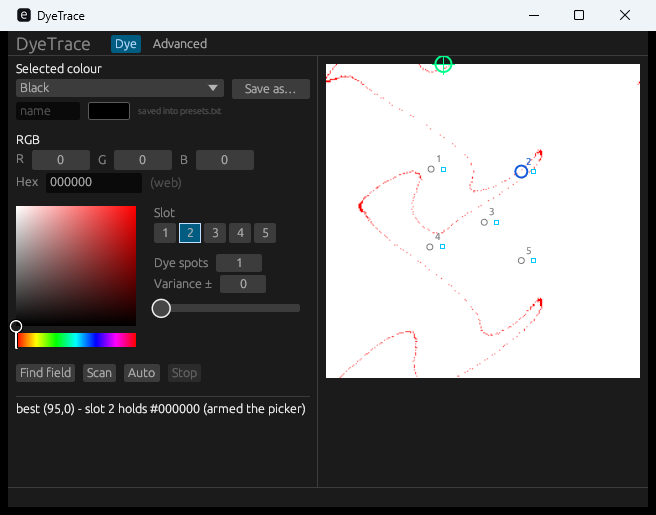
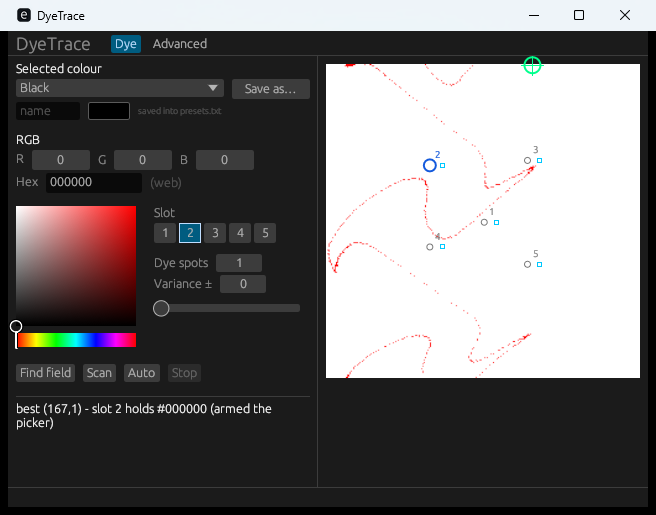
Number the samples the way the dye window numbers them
The dye window prints 1-5 above its five previews, and the samples behind them sit around the cursor: 1 is under the cursor, 2 and 3 are above it (left, right) and 4 and 5 below. The measured table now carries that slot for each entry instead of being numbered by detection order, so a chosen slot selects the same sample the player sees. A sample the detection misses keeps its neighbours' numbers - if the top-left sample is not drawn, the top-right one is still 3 - which is why the slot map travels with the table rather than being the table's index.

diff --git a/crates/engine/src/cycle.rs b/crates/engine/src/cycle.rs
@@ -110,8 +110,12 @@ pub struct Scan {
     pub pointer: (i32, i32),
     /// Legend boxes found, in palette pixels.
     pub boxes: Vec<(i32, i32)>,
-    /// Sample offsets relative to the pointer.
+    /// Sample offsets relative to the pointer, in the client's slot order.
     pub table: Vec<(i32, i32)>,
+    /// The slot each entry of `table` belongs to, numbered the way the dye
+    /// window numbers its previews: 0 is the sample under the pointer, 1 and 2
+    /// are above it, 3 and 4 below.
+    pub slots: Vec<usize>,
     /// Best candidate and its score.
     pub best: Option<search::Match>,
     /// Whether this scan had to arm the picker itself.
@@ -158,6 +162,7 @@ struct Prepared {
     pointer: (i32, i32),
     boxes: Vec<(i32, i32)>,
     table: Vec<(i32, i32)>,
+    slots: Vec<usize>,
     armed: bool,
 }
 
@@ -430,14 +435,19 @@ fn prepare(
 
         match read_offsets(window, screen, mouse, id, &board, log) {
             Ok((table, pointer, boxes)) => {
+                // Number the samples the way the client's preview swatches are
+                // numbered, so a chosen slot means the same thing to the player
+                // and to the search.
+                let (table, slots) = offsets::ordered(&table);
                 return Ok(Prepared {
                     board,
                     grid,
                     pointer,
                     boxes,
                     table,
+                    slots,
                     armed: presses > 0,
-                })
+                });
             }
             Err(ScanFail::NoLegend) if label == label::Label::PickColor => continue,
             Err(other) => return Err(other),
@@ -454,7 +464,7 @@ pub fn scan_once(
 ) -> Result<Scan, ScanFail> {
     let id = window.find().ok_or(ScanFail::NoClient)?;
     let prep = prepare(window, screen, mouse, id, opts, &mut |_: &str| {})?;
-    let (colours, _) = wanted(opts, prep.table.len());
+    let (colours, _) = wanted(opts, &prep);
     let best = search::search_with(&prep.grid, &prep.table, &colours, opts.variance);
 
     Ok(Scan {
@@ -464,6 +474,7 @@ pub fn scan_once(
         pointer: prep.pointer,
         boxes: prep.boxes,
         table: prep.table,
+        slots: prep.slots,
         best,
         armed: prep.armed,
     })
@@ -511,9 +522,13 @@ fn cancel_roll(
 }
 
 /// The colours to look for, one entry per measured sample, and how many of them
-/// must hold it.  A chosen slot takes priority over the slot count.
-fn wanted(opts: &Options, len: usize) -> (Vec<Option<Rgb>>, usize) {
-    search::plan(len, opts.colour, opts.slots, opts.prefer)
+/// must hold it.  A chosen slot takes priority over the slot count, and is
+/// looked up through the scan's slot map so a partial read cannot shift it.
+fn wanted(opts: &Options, prep: &Prepared) -> (Vec<Option<Rgb>>, usize) {
+    let prefer = opts
+        .prefer
+        .and_then(|slot| prep.slots.iter().position(|mine| *mine == slot));
+    search::plan(prep.table.len(), opts.colour, opts.slots, prefer)
 }
 
 /// Run the full cycle until a match is clicked, the colour runs out, or the
@@ -585,14 +600,14 @@ pub fn run(
             prep.pointer.1
         ));
 
-        let (colours, need) = wanted(opts, prep.table.len());
+        let (colours, need) = wanted(opts, &prep);
         if let Some(best) = search::search_with(&prep.grid, &prep.table, &colours, opts.variance) {
-            match opts.prefer.filter(|index| *index < prep.table.len()) {
-                Some(index) => report(&format!(
+            match opts.prefer.filter(|slot| prep.slots.contains(slot)) {
+                Some(slot) => report(&format!(
                     "  best=({},{}) slot {} holds it",
                     best.x,
                     best.y,
-                    index + 1
+                    slot + 1
                 )),
                 None => report(&format!(
                     "  best=({},{}) {}/{} need={need}",

diff --git a/crates/core/src/offsets.rs b/crates/core/src/offsets.rs
@@ -47,3 +47,64 @@ pub fn from_boxes(boxes: &[(i32, i32)], pointer: (i32, i32)) -> Vec<(i32, i32)> 
 
     table
 }
+
+/// The dye window numbers its five preview swatches, and the samples behind them
+/// sit around the cursor: slot 1 is the pixel under the cursor, 2 and 3 are the
+/// samples above it (left, then right), and 4 and 5 the ones below.
+pub const SLOT_COUNT: usize = 5;
+/// The slot that the pointer itself samples.
+pub const SLOT_CENTRE: usize = 0;
+
+/// The slot a sample belongs to, judged by where it sits around the cursor.
+fn quadrant(dx: i32, dy: i32) -> usize {
+    match (dy < 0, dx < 0) {
+        (true, true) => 1,   // above, left
+        (true, false) => 2,  // above, right
+        (false, true) => 3,  // below, left
+        (false, false) => 4, // below, right
+    }
+}
+
+/// Pair every measured offset with the slot the dye window numbers it by.
+///
+/// A sample the detection missed keeps its neighbours' numbers, so a partial
+/// read still means the same thing: if the top-left sample is not visible, the
+/// top-right one is still slot 3.  Two samples cannot share a slot, so a second
+/// one in the same corner takes the lowest free slot instead.
+pub fn by_slot(table: &[(i32, i32)]) -> Vec<(usize, (i32, i32))> {
+    let mut used = [false; SLOT_COUNT];
+    let mut pairs: Vec<(usize, (i32, i32))> = Vec::with_capacity(table.len());
+
+    let centre = table.iter().find(|(dx, dy)| *dx == 0 && *dy == 0);
+    if let Some(offset) = centre {
+        used[SLOT_CENTRE] = true;
+        pairs.push((SLOT_CENTRE, *offset));
+    }
+
+    for offset in table {
+        if Some(offset) == centre {
+            continue;
+        }
+        let mut slot = quadrant(offset.0, offset.1);
+        if used[slot] {
+            match used.iter().position(|taken| !taken) {
+                Some(free) => slot = free,
+                None => continue,
+            }
+        }
+        used[slot] = true;
+        pairs.push((slot, *offset));
+    }
+
+    pairs.sort_by_key(|(slot, _)| *slot);
+    pairs
+}
+
+/// The offsets in slot order, together with the slot of each entry.
+pub fn ordered(table: &[(i32, i32)]) -> (Vec<(i32, i32)>, Vec<usize>) {
+    let pairs = by_slot(table);
+    (
+        pairs.iter().map(|(_, offset)| *offset).collect(),
+        pairs.iter().map(|(slot, _)| *slot).collect(),
+    )
+}

diff --git a/tools/ui_focus.py b/tools/ui_focus.py
@@ -1,0 +1,48 @@
+"""Bring a window to the front, even from a background process.
+
+    python tools/ui_focus.py DyeTrace
+
+Windows normally refuses SetForegroundWindow to a process the user is not
+interacting with.  Sharing the foreground thread's input queue for the call is
+the documented way around that.
+"""
+import ctypes
+import sys
+import time
+from ctypes import wintypes
+
+user32 = ctypes.WinDLL('user32', use_last_error=True)
+kernel32 = ctypes.WinDLL('kernel32', use_last_error=True)
+
+user32.FindWindowA.restype = wintypes.HWND
+user32.FindWindowA.argtypes = [wintypes.LPCSTR, wintypes.LPCSTR]
+user32.GetForegroundWindow.restype = wintypes.HWND
+user32.GetWindowThreadProcessId.argtypes = [wintypes.HWND, ctypes.POINTER(wintypes.DWORD)]
+user32.GetWindowThreadProcessId.restype = wintypes.DWORD
+user32.AttachThreadInput.argtypes = [wintypes.DWORD, wintypes.DWORD, wintypes.BOOL]
+user32.SetForegroundWindow.argtypes = [wintypes.HWND]
+user32.BringWindowToTop.argtypes = [wintypes.HWND]
+kernel32.GetCurrentThreadId.restype = wintypes.DWORD
+
+
+def focus(title):
+    hwnd = user32.FindWindowA(None, title.encode())
+    if not hwnd:
+        raise SystemExit(f'no window titled {title!r}')
+
+    foreground = user32.GetForegroundWindow()
+    mine = kernel32.GetCurrentThreadId()
+    theirs = user32.GetWindowThreadProcessId(foreground, None)
+
+    user32.AttachThreadInput(mine, theirs, True)
+    user32.BringWindowToTop(hwnd)
+    user32.SetForegroundWindow(hwnd)
+    user32.AttachThreadInput(mine, theirs, False)
+    time.sleep(0.4)
+
+    return user32.GetForegroundWindow() == hwnd
+
+
+if __name__ == '__main__':
+    title = sys.argv[1] if len(sys.argv) > 1 else 'DyeTrace'
+    print('raised' if focus(title) else 'could not raise')

diff --git a/crates/core/tests/offsets.rs b/crates/core/tests/offsets.rs
@@ -35,3 +35,40 @@ fn table_never_exceeds_five_slots() {
     ];
     assert!(offsets::from_boxes(&boxes, (100, 100)).len() <= 5);
 }
+
+#[test]
+fn slots_are_numbered_the_way_the_dye_window_numbers_them() {
+    // Measured offsets from a live roll, in the order raster detection finds
+    // them: the client's numbering is 1 = cursor, 2 = top left, 3 = top right,
+    // 4 = bottom left, 5 = bottom right.
+    let measured = [(29, -45), (-44, 23), (0, 0), (-47, -48), (26, 30)];
+    let (table, slots) = offsets::ordered(&measured);
+
+    assert_eq!(
+        table,
+        vec![(0, 0), (-47, -48), (29, -45), (-44, 23), (26, 30)]
+    );
+    assert_eq!(slots, vec![0, 1, 2, 3, 4]);
+}
+
+#[test]
+fn a_missing_sample_does_not_renumber_the_others() {
+    // The top-left sample was not drawn this time; the top-right one is still
+    // slot 3 and the bottom-left one still slot 4.
+    let measured = [(-40, 27), (0, 0), (31, -45)];
+    let (table, slots) = offsets::ordered(&measured);
+
+    assert_eq!(table, vec![(0, 0), (31, -45), (-40, 27)]);
+    assert_eq!(slots, vec![0, 2, 3]);
+}
+
+#[test]
+fn two_samples_in_one_corner_take_separate_slots() {
+    let measured = [(0, 0), (-30, -20), (-60, -40)];
+    let (_, slots) = offsets::ordered(&measured);
+
+    assert_eq!(slots.len(), 3);
+    assert_eq!(slots[0], 0);
+    assert_eq!(slots[1], 1, "the nearer one keeps the corner");
+    assert_ne!(slots[2], 1);
+}

diff --git a/crates/engine/tests/arming.rs b/crates/engine/tests/arming.rs
@@ -66,7 +66,14 @@ fn draw(armed: bool, pointer: (i32, i32), _roll: u8) -> Image {
     if armed && over_grid {
         for (i, (dx, dy)) in OFFSETS.iter().enumerate() {
             let fill = Rgb::new(0x30 + i as u8 * 20, 0x90, 0x60);
-            legend_box(&mut img, PAL.0 + pointer.0 + dx + 10, PAL.1 + pointer.1 + dy, fill);
+            // The box's centre sits 10 px right of its crosshair, and the ring
+            // is 8 px across, so its top-left corner is half a box up and left.
+            legend_box(
+                &mut img,
+                PAL.0 + pointer.0 + dx + 10 - 4,
+                PAL.1 + pointer.1 + dy - 4,
+                fill,
+            );
         }
     }
     img
@@ -201,6 +208,12 @@ fn an_idle_window_is_armed_with_one_pick_color_press() {
         .expect("one press should arm the picker and reveal the legend");
 
     assert!(scan.armed, "the picker had to be armed");
+    assert_eq!(
+        scan.table[0],
+        (0, 0),
+        "slot 1 is the pointer, got {:?}",
+        scan.table
+    );
     assert_eq!(client.at_button(pick_button()), 1, "clicks {:?}", client.clicks());
     assert_eq!(client.at_button(cancel_button()), 0, "Cancel was never needed");
     assert!(!client.closed.get(), "the dye window must still be open");

diff --git a/crates/ui/src/app.rs b/crates/ui/src/app.rs
@@ -391,11 +391,12 @@ impl DyeTraceApp {
 
         // sample offsets around the pointer, numbered to match the slot picker
         for (index, (dx, dy)) in scan.table.iter().enumerate() {
+            let slot = scan.slots.get(index).copied().unwrap_or(index);
             let point = to_screen(scan.pointer.0 + dx, scan.pointer.1 + dy);
             if !rect.contains(point) {
                 continue;
             }
-            let chosen = self.prefer == Some(index);
+            let chosen = self.prefer == Some(slot);
             let colour = if chosen {
                 Color32::from_rgb(20, 90, 220)
             } else {
@@ -410,7 +411,7 @@ impl DyeTraceApp {
             ui.painter().text(
                 point + Vec2::new(5.0, -5.0),
                 egui::Align2::LEFT_BOTTOM,
-                format!("{}", index + 1),
+                format!("{}", slot + 1),
                 egui::FontId::proportional(10.0),
                 colour,
             );

diff --git a/crates/app/src/main.rs b/crates/app/src/main.rs
@@ -224,10 +224,15 @@ fn run_replay(args: &[String]) -> i32 {
             );
         }
 
-        let table = offsets::from_boxes(&boxes, pointer);
-        println!("offsets    {} (pointer at both {})", table.len(), format!("{},{}", pointer.0, pointer.1));
+        let (table, slots) = offsets::ordered(&offsets::from_boxes(&boxes, pointer));
+        println!(
+            "offsets    {} (pointer at {},{})",
+            table.len(),
+            pointer.0,
+            pointer.1
+        );
         for (i, (dx, dy)) in table.iter().enumerate() {
-            println!("  slot {i}  {dx:+},{dy:+}");
+            println!("  slot {}  {dx:+},{dy:+}", slots[i] + 1);
         }
 
         if table.len() < dyetrace_core::MIN_SLOTS {

diff --git a/README.md b/README.md
@@ -74,7 +74,7 @@ left, the search preview on the right, and a log along the bottom.
 | `Selected colour` / `Save as…` | Named colours, stored in `presets.txt` next to the executable. |
 | `R` `G` `B`, `Hex` | The dye colour. All three stay in sync with the picker. |
 | Colour square + hue strip | Pick the colour visually; the square follows the chosen colour. |
-| `Slot` | Optional. Press 1–5 to require that one sample to hold the colour; press it again to clear. Takes priority over `Dye spots`. The numbers in the preview match. |
+| `Slot` | Optional. Press 1–5 to require that one sample to hold the colour; press it again to clear. The numbers are the ones the dye window prints above its five previews: 1 is under the cursor, 2–3 above it, 4–5 below. Takes priority over `Dye spots`. |
 | `Dye spots` | How many of the five samples must hold the colour (1–5). Which sample holds it does not matter. |
 | `Variance ±` | Per-channel tolerance as a number, or drag the slider below it. `0` = exact match. |
 | `Find field` | Locate the palette and report where it is. |
@@ -126,7 +126,7 @@ The legacy GUI (`legacy\c-reference`) has the field table below.
 
 1. **Locate the palette.** The dye palette is a 256×256 square, so DyeTrace looks for the square whose four borders are edges and whose interior varies. That works regardless of which colours the palette happens to contain.
 2. **Capture once per attempt.** The gradient is grabbed right after `Pick Color` and before the cursor touches it, so the image never contains the client's marker graphics. The cursor waits below the palette in between, where the client's camera cannot take it.
-3. **Read the sample offsets.** Hovering the grid makes the client draw five markers. Each marker is a **crosshair** (the sample point) joined by a short neck to a **legend box** that shows the colour found there; the box sits 10 px to the right of its crosshair. Measured on every box: `box_fill == gradient[box_centre + (-10, 0)]`, exactly. The pointer's own slot is `(0,0)`.
+3. **Read the sample offsets.** Hovering the grid makes the client draw five markers. Each marker is a **crosshair** (the sample point) joined by a short neck to a **legend box** that shows the colour found there; the box sits 10 px to the right of its crosshair. Measured on every box: `box_fill == gradient[box_centre + (-10, 0)]`, exactly. The samples are then numbered the way the dye window numbers its five previews — 1 under the cursor, 2 and 3 above it, 4 and 5 below — so a chosen slot means the same thing on both sides.
 4. **Search.** For every position in the 254×254 palette, sample the five offsets (wrapping ±256, rejecting the separator/background at 254–255) and count how many are within the variance. Keep the best count, then the lowest colour distance. Picking a slot replaces the count with a single test: only that sample is asked for the colour.
 5. **Act.** Move the cursor to the match and click — or click `Cancel` and start over.
 
